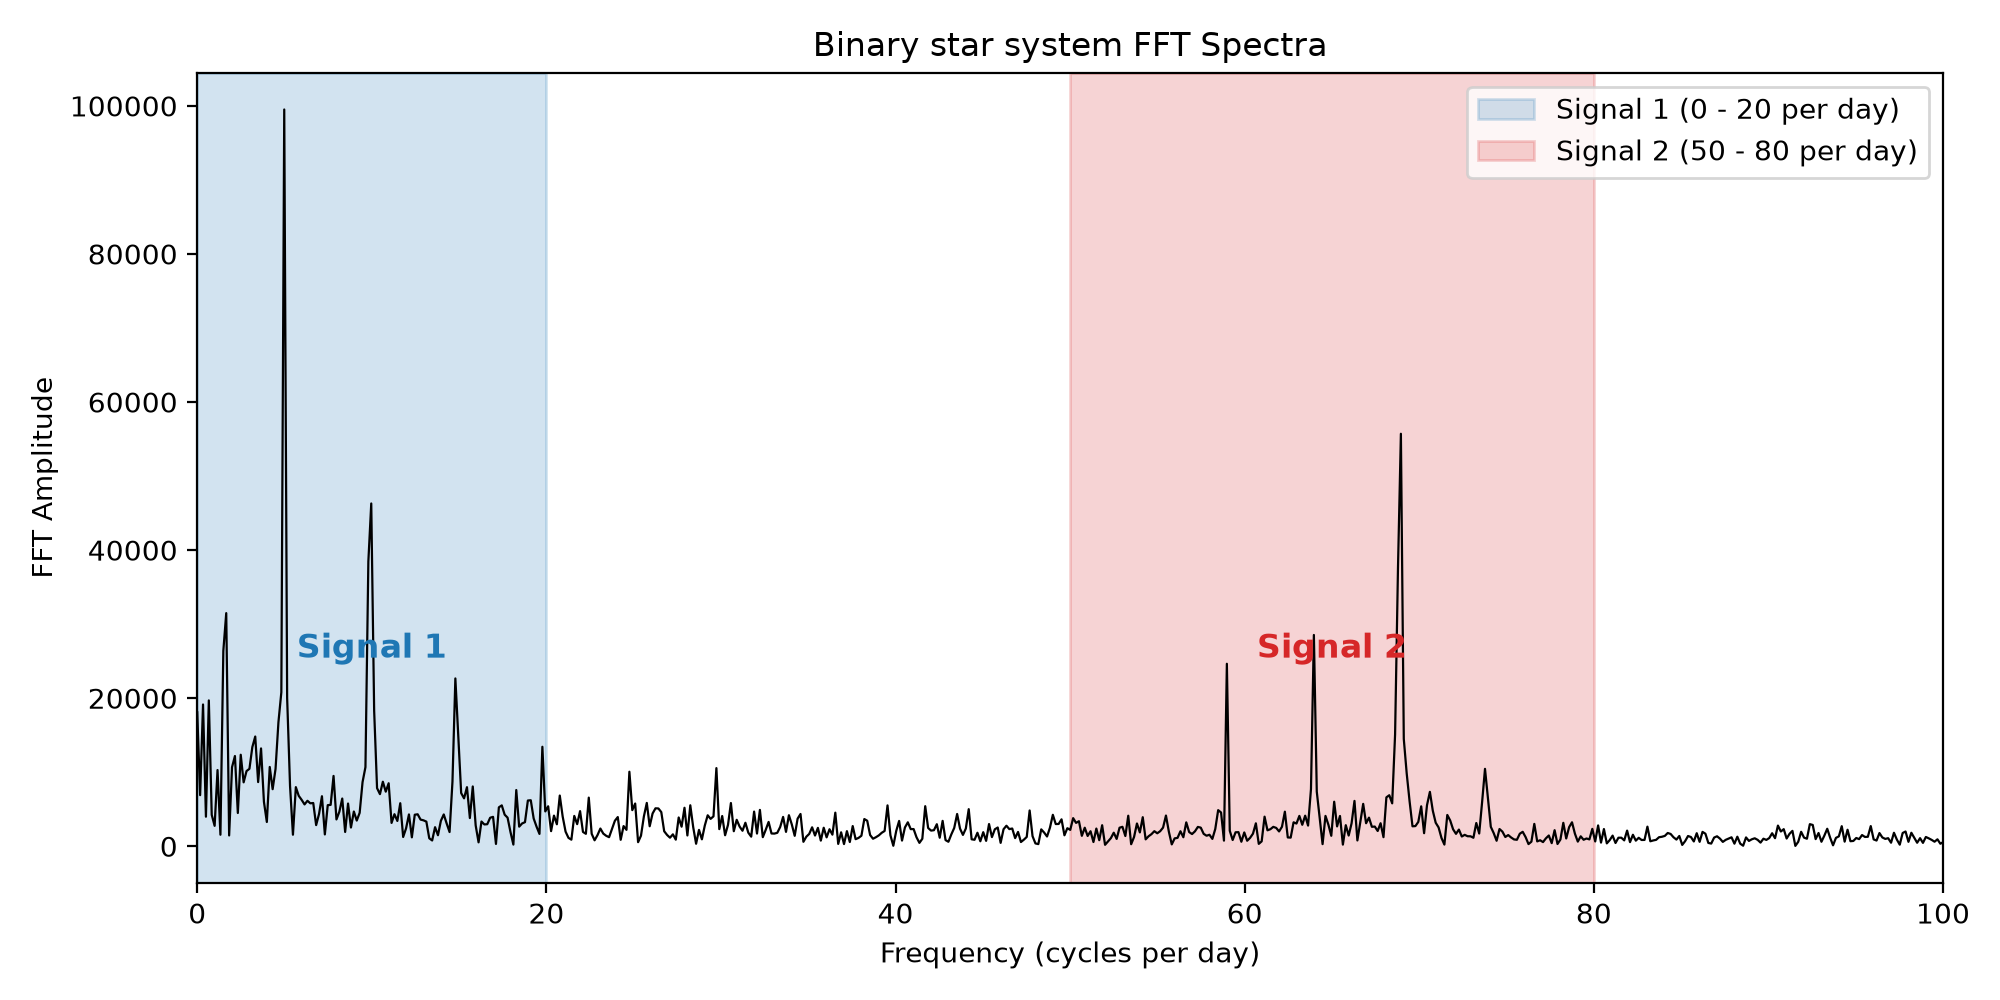
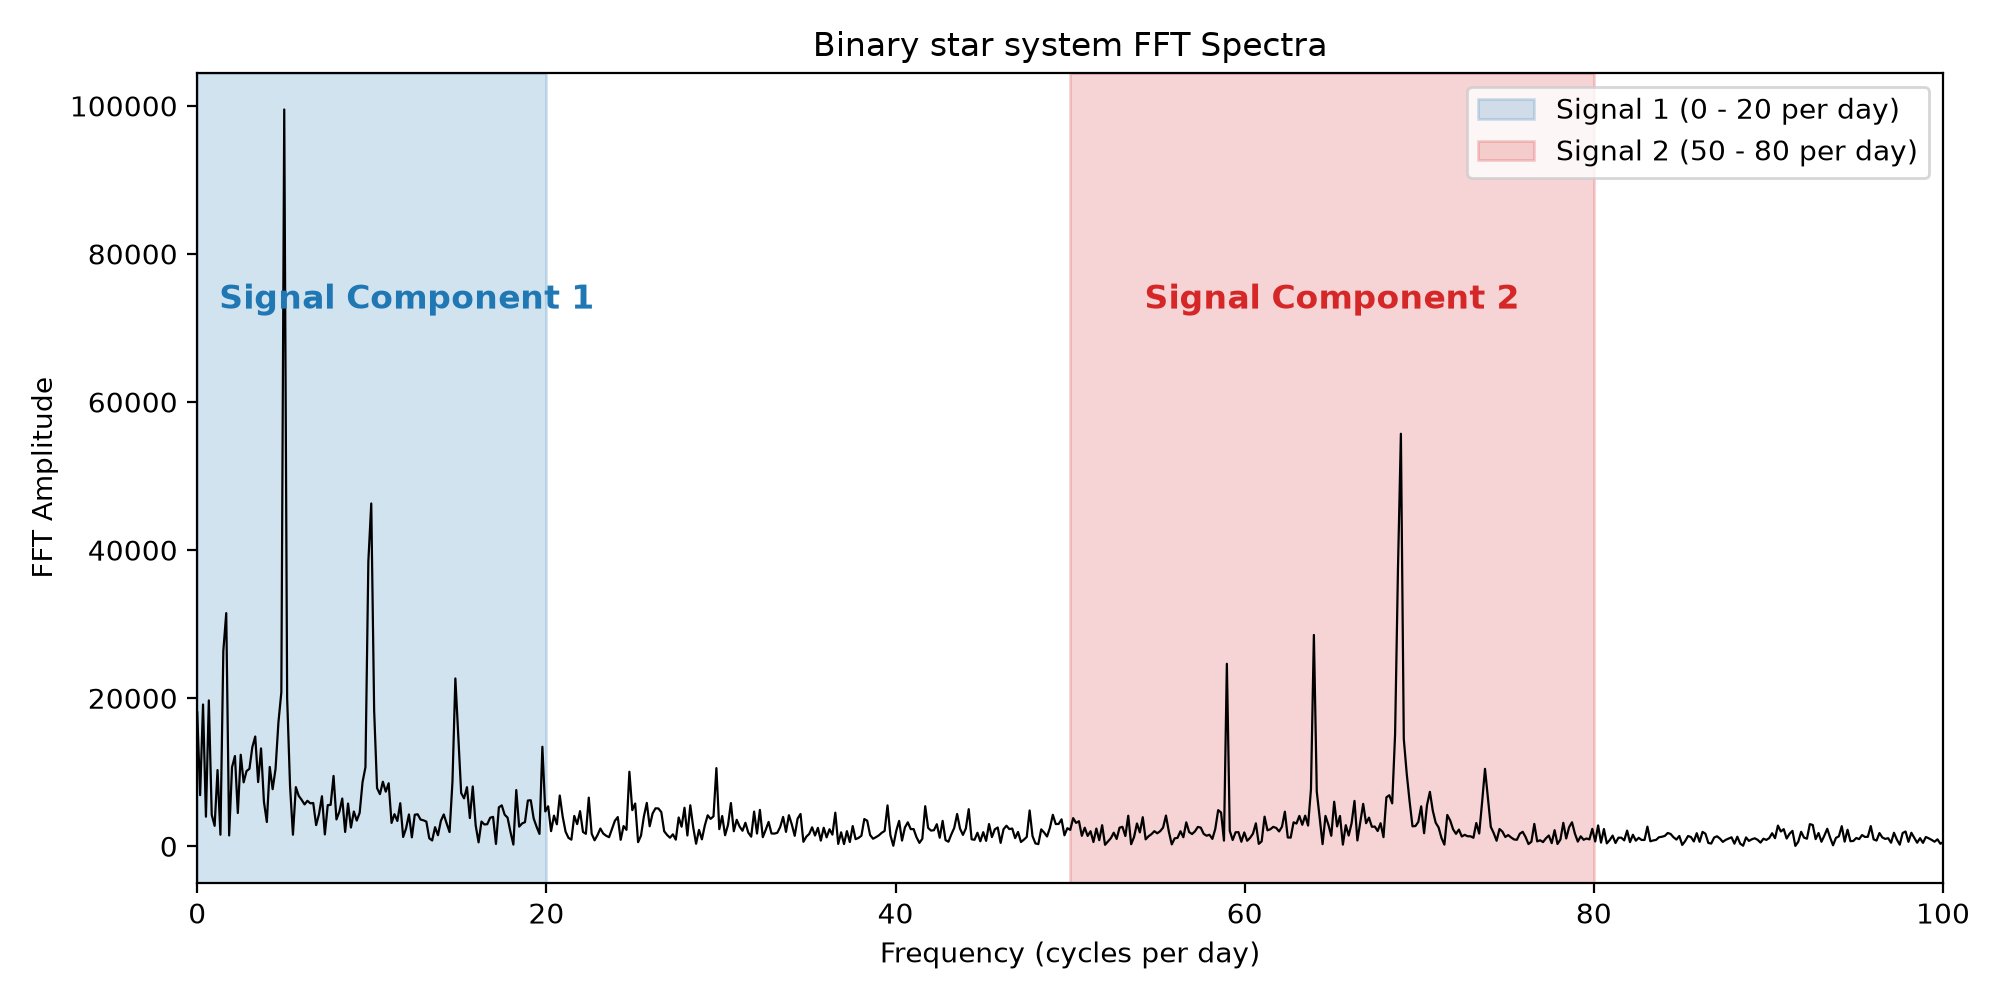
comments and changed the error

diff --git a/ps1/part_2/q2q3.py b/ps1/part_2/q2q3.py
@@ -1,65 +1,92 @@
+## Problem Set 1 Problem 2:
+## Q2: Monte Carlo code which simulates isotropic scattering of photons through a
+## uniform slab
 import numpy as np
 import matplotlib.pyplot as plt
+#setting rng seed to 67 for reproducability
 rngseed = np.random.default_rng(67)
+# creating the photon class so the position and movement direction 
+# of a single photon can be logged
 class photon:
+    #zmax is the height of the slab it must escape
+    #tmax is the maximum travel time before scattering
     def __init__(self,zmax,tmax):
+        #photons start at origin
         self.x = 0.0
         self.y = 0.0
         self.z = 0.0
+        #photons go straight up initially
         self.theta = 0.0
         self.phi = 0.0
+        #set the initial tmax and zmax
         self.zmax = zmax
         self.tmax = tmax
     def evolve_photon(self):
+        #setting the photon to travel for a random time between
+        # 0 and tmax 
         rng = rngseed.random()
         t = -np.log(1-rng)
         L = t /self.tmax
+        #updating the distance after traveling t seconds
+        # the direction of travel is based on theta and phi
         self.x = self.x + L*np.sin(self.theta)*np.cos(self.phi)
         self.y = self.y + L*np.sin(self.theta)*np.sin(self.phi)
         self.z = self.z + L*np.cos(self.theta)
     def scatter(self):
+        #set the new theta and phi randomly from the equations
+        #derived in q1
         rng1 = rngseed.random()
         rng2 = rngseed.random()
         self.theta = np.arccos(2*rng1-1)
         self.phi = 2*np.pi*rng2
     def run(self):
+        #runs a loop of evolve->scatter until the photon leaves
+        #the box and then returns theta and a bool for if it left the top
         while True:
+            #set the photon moving
             self.evolve_photon()
             if self.z >self.zmax or self.z <0:
+                #break the loop if it leaves the block
                 break
+            #scatter to change direction
             self.scatter()
+        #return true if the photon escaped the top of the block
         if self.z >= self.zmax:
             return True , self.theta
         else:
             return False, self.theta
 
-
+#set params
 zmax = 1.0
 tmax = 10.0
 N = 100000
 mu_bins = 20
 theta_results = []
+#run N simulations and make an array of all the 
+#thetas for photons that left the box
 for i in range(N):
     top_emission, theta = photon(zmax, tmax).run()
     if top_emission == True:
         theta_results.append(theta)
 print(f"{len(theta_results)} photons emitted from top")
+# getting variables for the Flux calculation
 mu_results = np.cos(theta_results)
 edges = np.linspace(0, 1, mu_bins + 1)
 Ni = np.histogram(mu_results, bins=edges)[0]
 N_o = len(theta_results)
 mu_i = 0.5 * (edges[1:] + edges[:-1])  
-
+#calculating the flux and the angle in degrees
 I_f = Ni * mu_bins / (2 * N_o * mu_i)
-
-
-ang_c, I_c = np.loadtxt("Chandrasekhar1960.dat", unpack=True)
 theta_i = np.degrees(np.arccos(mu_i))
+#import the chandrasekhar results
+ang_c, I_c = np.loadtxt("Chandrasekhar1960.dat", unpack=True)
+### Q3: Determine appropriate errors for each bin
+#🦖 Gaussian error 
+I_f_err = I_f/np.sqrt(Ni)
 
-I_f_err = np.sqrt(Ni) * mu_bins / (2 * N_o * mu_i)
 plt.errorbar(theta_i, I_f, yerr=I_f_err, fmt='o', label=f"Monte Carlo ({N_o} photons)")
 plt.plot(ang_c, I_c, 'r-', label="Chandrasekhar (1960)")
 plt.xlabel(r"Angle from normal $\theta$ (deg)")
 plt.ylabel(r"$I/F$")
 plt.legend()
-plt.show()
+plt.savefig("PS1P2q2q3.png", dpi=200)

diff --git a/ps1/part_1/q4.py b/ps1/part_1/q4.py
@@ -1,7 +1,9 @@
+## Problem Set 1 Problem 1:
+## Q4: Using FFT to isolate the two main signal components in FOAqr.dat
 import numpy as np
 import numpy.fft as fft
 import matplotlib.pyplot as plt
-
+# Load Data and perform FFT
 data = np.loadtxt("FOAqr.dat")
 t = data[:,0]
 flux = data[:,1]
@@ -11,17 +13,17 @@ freq = fft.rfftfreq(len(flux), d=dt)
 
 ### Low pass filter
 F_low = Famp.copy()
-#isolate signal 1
+#isolate signal component 1
 F_low[freq>= 20] = 0
-#inverse fft performed on only signal 1 periods
+#inverse fft performed on only signal component 1 periods
 flux_low_signal = fft.irfft(F_low, n=len(flux))
 
 ### High Pass filter
 F_high = Famp.copy()
-#isolate signal 2
+#isolate signal component 2
 F_high[freq>= 80] = 0
 F_high[freq<=50] = 0
-#inverse fft performed only on signal 2 periods
+#inverse fft performed only on signal component 2 periods
 flux_high_signal = fft.irfft(F_high, n=len(flux))
 
 
@@ -34,9 +36,9 @@ ax.axvspan(0, 20, color="tab:blue", alpha=0.2, label="Signal 1 (0 - 20 per day)"
 ax.axvspan(50, 80, color="tab:red", alpha=0.2, label="Signal 2 (50 - 80 per day)")
 
 ymax = Famp.max()
-ax.text(10, 0.95 * ymax, "Signal 1", ha="center", va="top",
+ax.text(12, 2.5 * ymax, "Signal Component 1", ha="center", va="top",
         color="tab:blue", fontsize=12, fontweight="bold")
-ax.text(65, 0.95 * ymax, "Signal 2", ha="center", va="top",
+ax.text(65, 2.5 * ymax, "Signal Component 2", ha="center", va="top",
         color="tab:red", fontsize=12, fontweight="bold")
 #labels and scaling
 ax.set_xlim(0, 100)

diff --git a/ps1/part_1/q2.py b/ps1/part_1/q2.py
@@ -1,13 +1,20 @@
+## Problem Set 1 Problem 1:
+### Q2:Computing the DFT for y(t) = cos(2π2t) + sin(2π4t) 
+
+#taking the sample and dft function from the last question
 from q1 import Sample_and_DFT
 import numpy as np
 import matplotlib.pyplot as plt
-
+#define the function cos(2π2t) + sin(2π4t)
 def func(t):
     return np.cos(2*np.pi*2*t) + np.sin(2*np.pi*4*t)
+#Sample and DFT for different sampling params, t0, t1, dt
 f1, y1 = Sample_and_DFT(func, 0,4,0.5)
 f2, y2 = Sample_and_DFT(func, 0,4,0.1)
 f3, y3 = Sample_and_DFT(func, 0,20,0.1)
+#get the absolute value of the amplitudes for easier visualisation
 y1, y2, y3 = np.abs(y1), np.abs(y2), np.abs(y3)
+#plot of DFT 1: t0 = 0, t1 = 4, dt = 0.5
 plt.figure()
 plt.plot(f1, y1, marker='o')
 plt.xlabel('f')
@@ -19,7 +26,7 @@ plt.axvline(x=4.0, color='red', linestyle='--', label='K' \
 plt.title('Fourier transform of cos(2π2t) + sin(2π4t) for t = 4 and dt = 0.5')
 plt.legend()
 plt.savefig('PS1P1Q2_DFT_1.png') 
-
+#plot of DFT 2: t0 = 0, t1 = 4, dt = 0.1
 plt.figure()
 plt.plot(f2, y2, marker='o')
 plt.xlabel('f')
@@ -31,7 +38,7 @@ plt.axvline(x=4.0, color='red', linestyle='--', label='K' \
 plt.title('Fourier transform of cos(2π2t) + sin(2π4t) for t = 4 and dt = 0.1')
 plt.legend()
 plt.savefig('PS1P1Q2_DFT_2.png')  
-
+#plot of DFT 2: t0 = 0, t1 = 20, dt = 0.1
 plt.figure()
 plt.plot(f3, y3, marker='o')
 plt.xlabel('f')

diff --git a/ps1/part_1/q1.py b/ps1/part_1/q1.py
@@ -1,5 +1,5 @@
 ## Problem Set 1 Problem 1:
-## Calculates a Discrete Fourier Transform of cos(2π2t)
+## Q1: Calculates a Discrete Fourier Transform of cos(2π2t)
 import matplotlib.pyplot as plt
 import numpy as np
 # Function takes in time array and corresponding amplitude
@@ -13,15 +13,15 @@ def DFT( t, y):
     for n in range(N):
         f[n] = np.sum(y*np.exp(-2*np.pi* 1j*m*(n/N)))
     return nu,f
-
+#function for cos(2π2t)
 def func(t):
     return np.cos(2*np.pi*2*t)
-
+#Samples function (ft) with params t0, t1, dt and returns its DFT
 def Sample_and_DFT(ft, t0, t1, dt):
     t = np.arange(t0,t1,dt)
     y = ft(t)
     return DFT(t,y)
-
+#
 freq, y = Sample_and_DFT(func, 0, 10, 0.1)
 y = np.abs(y)
 t = np.linspace(-10, 10, 500)
@@ -35,8 +35,9 @@ plt.savefig('PS1P1Q1_cos.png')
 #Plot of Y(f) Vs f 
 plt.figure()
 plt.plot(freq, y, marker='o')
-plt.xlabel('f')
+plt.xlabel(r"f")
 plt.ylabel('Y(f)')
+#Known period of 2 radians is labelled
 plt.axvline(x=2.0, color='red', linestyle='--', label='Known Period of cos(2π2t)')
 plt.title('Fourier transform of cos(2π2t)')
 plt.legend()

diff --git a/ps1/part_1/q3.py b/ps1/part_1/q3.py
@@ -1,13 +1,15 @@
+## Problem Set 1 Problem 1:
+## Q3: Verifcation of whether t values are uniformly spaced (Required for FFT)
 import numpy as np
 import matplotlib.pyplot as plt
-
+# Load data from file provided
 data = np.loadtxt("FOAqr.dat")
 t = data[:,0]
 f = data[:,1]
+#array of all differences between time values
 dt = np.diff(t)
+# variation between the spacing
 ddt = np.max(dt) - np.min(dt)
-print(t[0], "    ", f[0])
-if np.max(dt) == np.min(dt):
-    print("Uniform with difference of ", dt)
-else:
-    print("Precision is  ", ddt, "\n Which is close enough to floating point precision so can be considered Uniform")
+# print average spacing and the maximum variation
+print("Average Spacing is ", dt.mean())
+print("Variation is  ", ddt)
